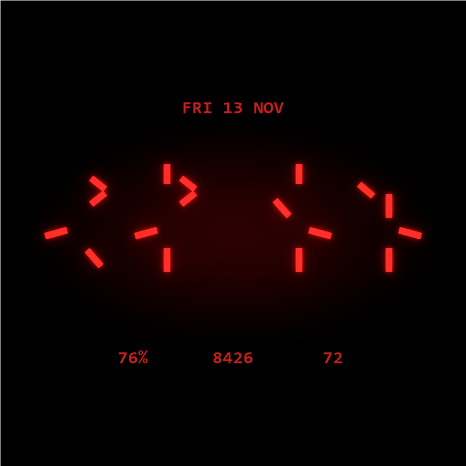
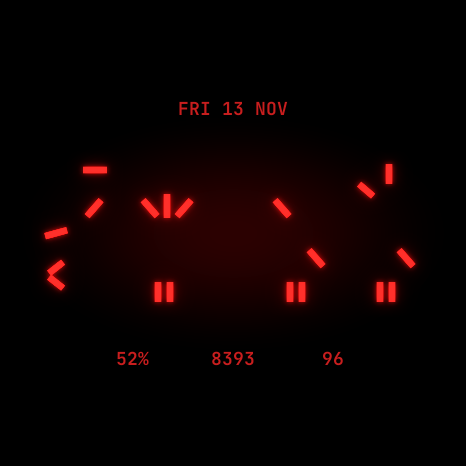
v2.0: preview and README pictures are now screenshots from the watch

diff --git a/README.md b/README.md
@@ -8,7 +8,7 @@ A hunter's wrist display for round Wear OS watches (built for the OnePlus Watch 
   <img src="docs/thermal.png" width="250" alt="Predator watch face, thermal view">
 </p>
 
-The pictures are composited locally from the rendered layers (`tools/mock.ps1`).
+The pictures are screenshots from the watch.
 
 ## The display
 
